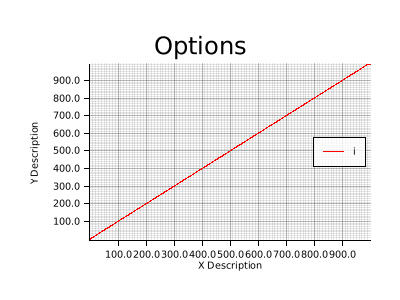
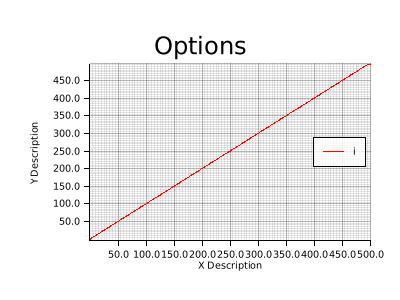
add option to specify axis range

diff --git a/src/lib.rs b/src/lib.rs
@@ -45,6 +45,8 @@
 /// |`x_desc`|`"x description"`|Sets the description of the x axis.|
 /// |`y_desc`|`"y description"`|Sets the description of the y axis.|
 /// |`path`|`"/plots/my_plot.jpg"`|Defines where the plot is saved.|
+/// |`x_range`|`0f64..100f64`|Defines start and end of the x axis.|
+/// |`y_range`|`0f64..100f64`|Defines start and end of the y axis.|
 #[macro_export]
 macro_rules! plot {
     (
@@ -118,7 +120,7 @@ pub use debug::*;
 mod debug {
     use num_traits::cast::ToPrimitive;
     use plotters::prelude::*;
-    use std::{cell::RefCell, collections::HashMap, fmt};
+    use std::{cell::RefCell, collections::HashMap, fmt, ops::Range};
 
     thread_local! {
         pub static PLOTS: Plots = Plots::new();
@@ -263,7 +265,10 @@ mod debug {
                 .margin(30)
                 .x_label_area_size(30)
                 .y_label_area_size(60)
-                .build_cartesian_2d(self.x_min()..self.x_max(), self.y_min()..self.y_max())?;
+                .build_cartesian_2d(
+                    self.options.x_range.clone().unwrap_or(self.x_min()..self.x_max()), 
+                    self.options.y_range.clone().unwrap_or(self.y_min()..self.y_max()),
+                )?;
 
             let mut mesh = chart.configure_mesh();
             if let Some(x_desc) = &self.options.x_desc {
@@ -300,5 +305,7 @@ mod debug {
         pub x_desc: Option<String>,
         pub y_desc: Option<String>,
         pub path: Option<String>,
+        pub x_range: Option<Range<PlotType>>,
+        pub y_range: Option<Range<PlotType>>,
     }
 }

diff --git a/examples/options.rs b/examples/options.rs
@@ -4,9 +4,11 @@ fn main() {
             i where
             caption = "Options",
             size = (400, 300),
+            path = "plots/Options.jpg",
             x_desc = "X Description",
             y_desc = "Y Description",
-            path = "plots/Options.jpg"
+            x_range = 0f64..500f64,
+            y_range = 0f64..500f64
         );
     }
 }
